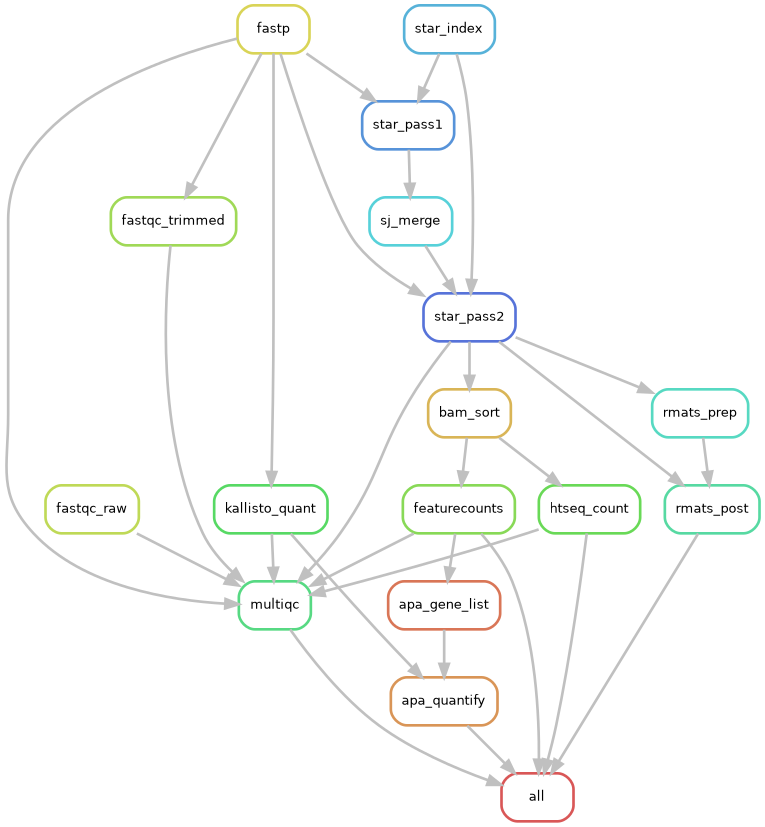
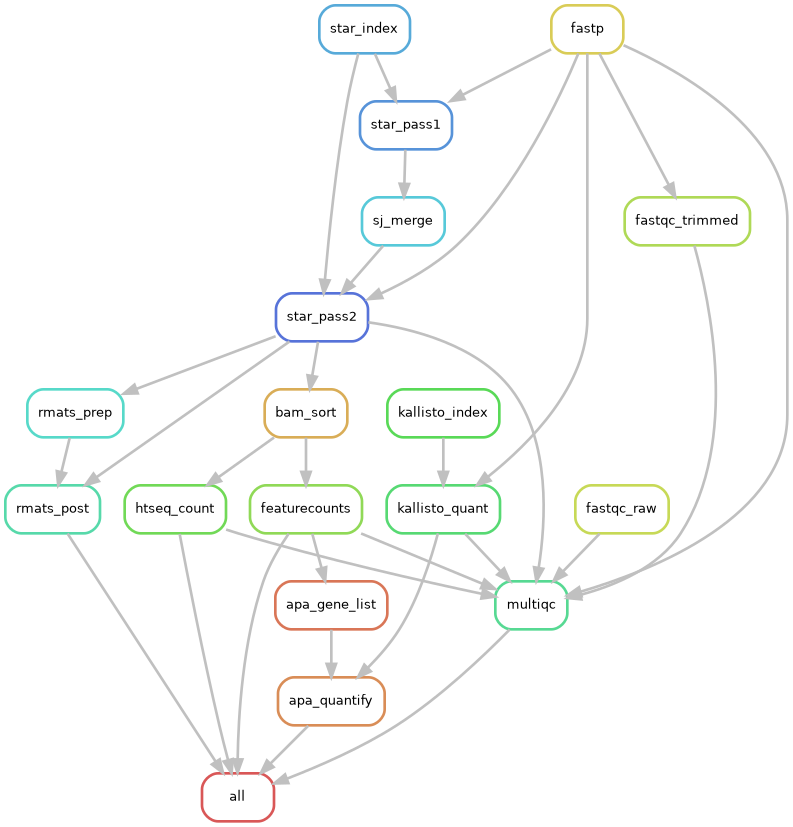
Update DAG and docs about kallisto_index rule

diff --git a/README.md b/README.md
@@ -53,7 +53,7 @@ snakemake --configfile config/my_dataset/config.yaml --directory <run folder> --
 2. **Align:** STAR index; STAR pass 1; junctions pooled across samples; STAR pass 2.
 3. **Expression:** featureCounts and htseq-count; one MultiQC report for the run.
 4. **Splicing:** rMATS `prep` per sample, then one `post` over all samples with `--statoff`.
-5. **APA:** kallisto on the 3′ UTR windows; reliably expressed genes from the gene counts; apatools filters the isoform counts and pairs each gene's proximal and distal isoforms.
+5. **APA:** kallisto index of the 3′ UTR windows (built if missing); kallisto on each sample; reliably expressed genes from the gene counts; apatools filters the isoform counts and pairs each gene's proximal and distal isoforms.
 
 ## Configs
 

diff --git a/config/README.md b/config/README.md
@@ -57,5 +57,8 @@ using a regex for the file names (`--help` shows an example).
 
 ## 3′ UTR reference (APA module)
 
-See the README for what the three `apa_reference` files contain and how to
-build them. If you don't have one, set `modules: {apa: false}`.
+`apa_reference` needs two GTFs: `gtf_no_focus` (the 3′ UTR isoforms) and
+`gtf_focus` (the windows that are counted). `kallisto_index` is the path of the
+windows' kallisto index; TRIDENT builds it there from `gtf_focus` and the
+genome if it does not exist yet. See the README for what the reference is. If
+you don't have one, set `modules: {apa: false}`.
